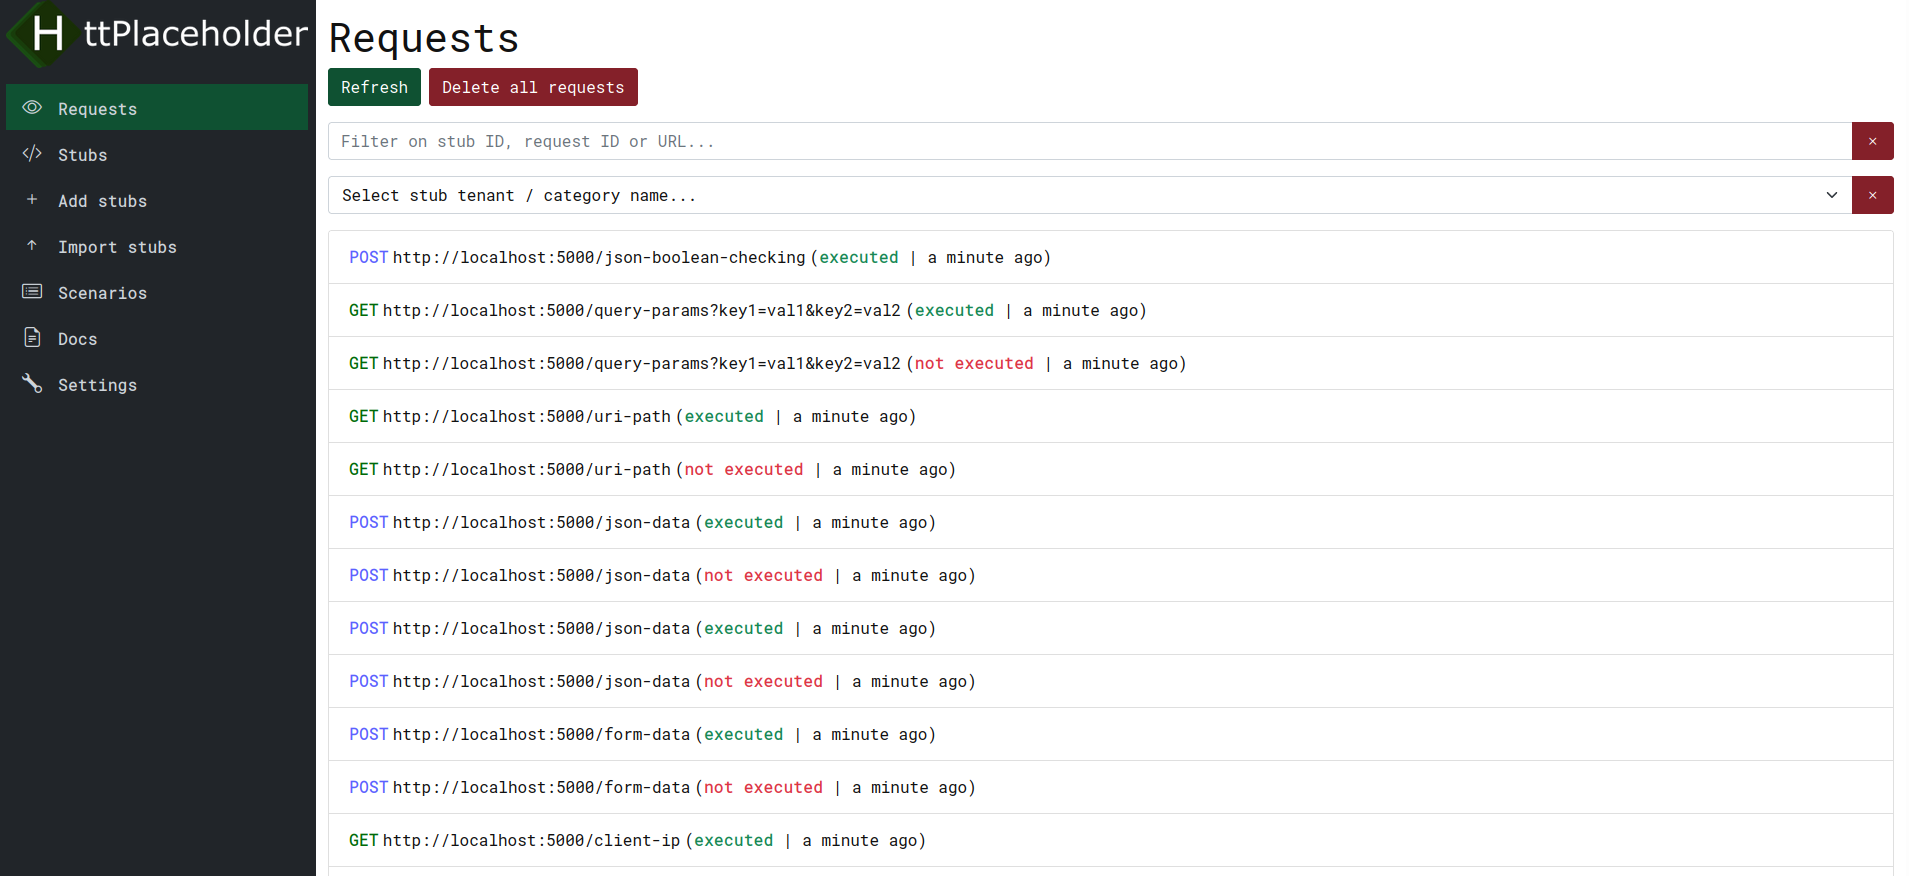
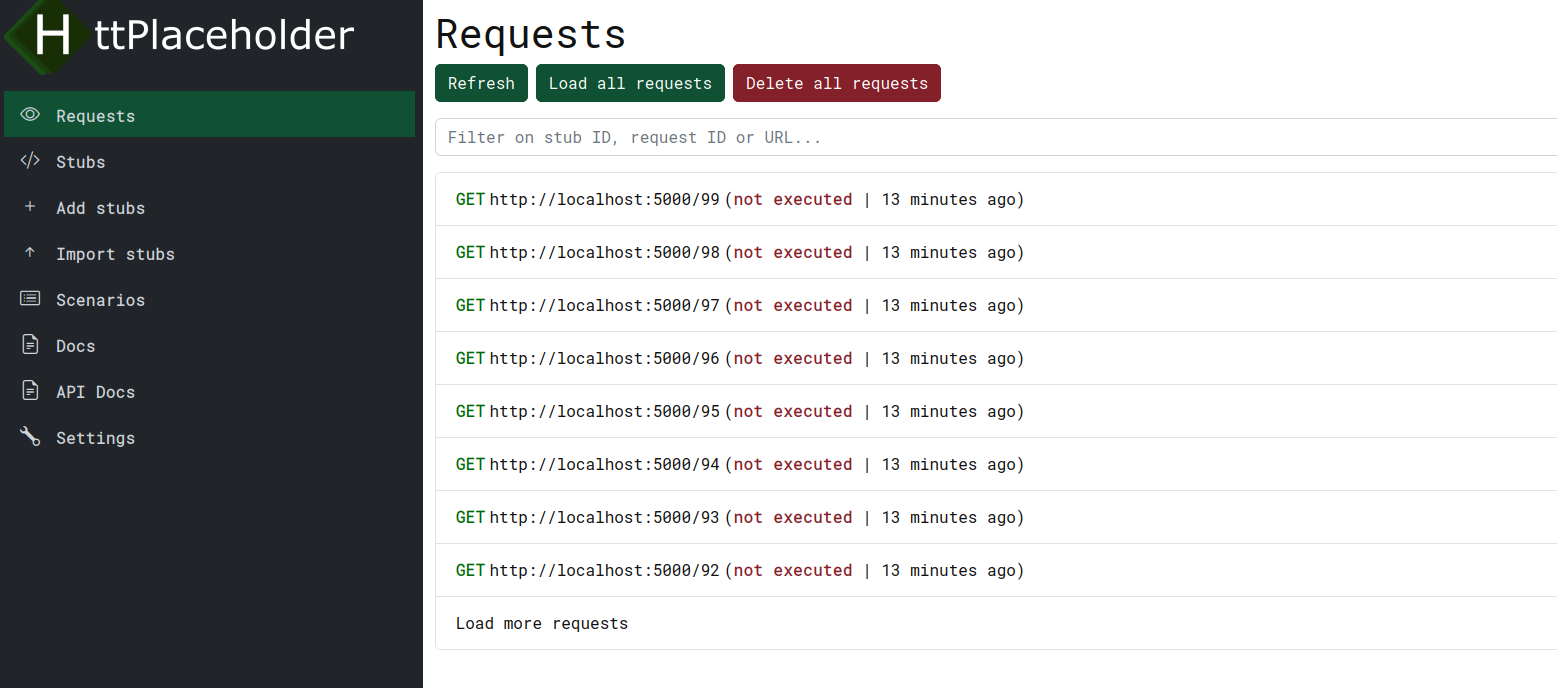
Updates in docs and changelog

diff --git a/docs/docs.md b/docs/docs.md
@@ -2677,16 +2677,18 @@ When you run the stub, you can just go to `http://placeholder/ph-ui`. If you've 
 
 ## Requests page
 
-On the requests page you can see all requests made to HttPlaceholder. It will show which URL was called and if a valid stub was found for the requests. You can also open a specific request and view the details of this request.
+On the requests page you can see all requests made to HttPlaceholder. It will show which URL was called and if a valid stub was found for the requests. You can also open a specific request and view the details of this request. By default, paging is enabled for the requests. You can change the paging (or disable it) on the [settings page](#settings-page).
 
 ![](img/ui/requests_overview.png)
 
 You have several options here.
 
 - Refresh: fetches the requests from HttPlaceholder.
+- Load all requests: loads all request currently available in HttPlaceholder, disregarding the number of requests per page.
 - Delete all requests: as the name says, deletes all the requests from HttPlaceholder.
 - Filter on stub ID, request ID or URL: a filter search box where you can filter requests either on the executed stub ID, the request correlation ID or the URL.
 - Tenant / category name: a filter for filtering requests that are part of a specific tenant (see [tenants](#tenants)).
+- Load more requests: loads a new batch of n requests (as defined on the [settings page](#settings-page)).
 
 ### Request details
 
@@ -2881,6 +2883,7 @@ On the settings page you can configure all kinds of settings for HttPlaceholder 
 - Dark theme: turns the dark theme on or off.
 - Persist search filters on stubs and request screens: when this option is on, the filters on the stubs and is persisted between page navigations.
 - Store response for request: whenever this settings is enabled, all the responses that are sent to the client are saved alongside the requests. Clicking this checkbox will send a request to the HttPlaceholder configuration API.
+- Default number of requests on the request page. This number determines the number of requests that are loaded by default on the requests page. A "Load more requests" button is shown whenever there are more requests to load. If you set this value to `0`, the paging is disabled and all requests are always loaded.
 - View the configuration HttPlaceholder was started with.
 
 # Tools and client libraries
